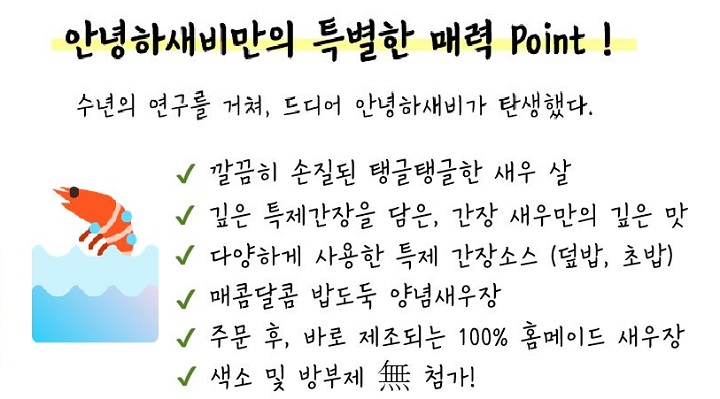
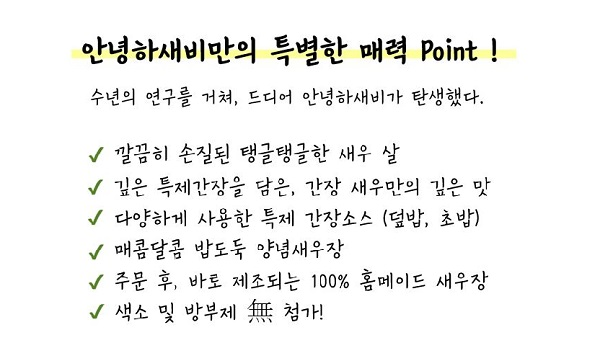
d

diff --git a/_posts/2020-01-20-안녕하새비의-깐새우장.md b/_posts/2020-01-20-안녕하새비의-깐새우장.md
@@ -5,48 +5,22 @@ categories:
   - Product 
 featured_image: /images/product/shrimp2.jpg
 recipe:
-  servings: 12 cupcakes
-  prep: 5 minutes
-  cook: 25 minutes
+  servings:
+  prep:
+  cook:
   ingredients_markdown: |-
-    **Cupcakes**
-
-    * 2 cups flour
-    * 1/2 cup cocoa powder
-    * 1 tablespoon baking powder
-    * 1 tsp. salt
-    * 1/2 tsp. baking soda
-    * 4 tablespoons butter
-    * 4 oz. applesauce
-    * 1 cup sugar
-    * 2 eggs
-    * 4 oz. chocolate
-    * 1 tsp. vanilla
-    * 1/2 cup whole milk
-    * 1/2 cup boiling water
-
-    **Icing**
-
-    * 8 oz. of cream cheese
-    * 1 cup of powdered sugar
-    * 1/4 cup milk
-    * 1 tablespoon butter
   directions_markdown: |-
-    **Cupcakes**
-
-    1. Preheat Oven 350 degree
-    2. In a bowl combine flour, cocoa baking powder, baking soda and salt.
-    3. In a food processor combine butter and sugar and process until smooth. Add the eggs, 4 oz. of chocolate pieces and vanilla. Add half of the flour mixture and ½ of the milk. Process and add the other half of the flour and the remainder of the milk. Slowly, add the hot water.
-    4. Grease and fill muffin tins to top.
-    5. Bake 20 25 minutes or until toothpick test comes out clean.
-    6. Let cool.
-
-    **Icing**
-    1. Combine all of the above in a food processor and process until smooth. Refrigerate.
-    2. Frost cupcakes as you use them.
 ---
+
 <center>
-    <br>안녕하새비만의 특별한 매력 Point &#x1F601;&#x1F44D;
+    ##안녕하새비만의 특별한 매력 Point &#x1F601;&#x1F44D;  
+    <span style= "background-color: yellow; font-style: italic;">수년의 연구를 거쳐, 드디어 안녕하새비가 탄생했다.</span>  
+    &#x2714; 깔끔히 손질된 탱글탱글한 새우 살  
+    &#x2714; 깊은 특제간장을 담은, 간장 새우만의 깊은 맛  
+    &#x2714; 다양하게 사용한 특제 간장소스 (덮밥, 초밥)  
+    &#x2714; 매콤달콤 밥도둑 양념새우장  
+    &#x2714; 주문 후, 바로 제조되는 100% 홈메이드 새우장  
+    &#x2714; 색소 및 방부제 &#28961; 첨가!  
 </center>
 
 ![product](/images/product/point.JPG)
